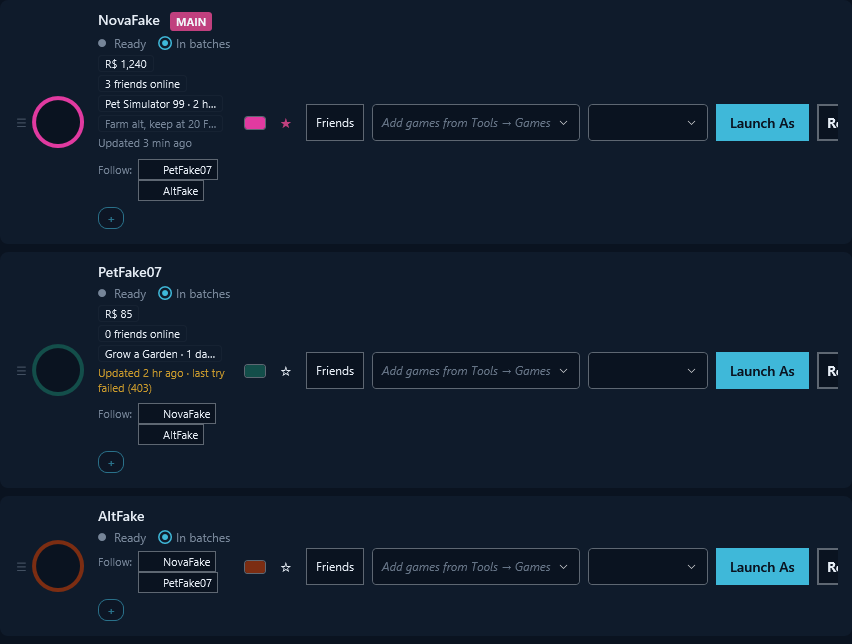
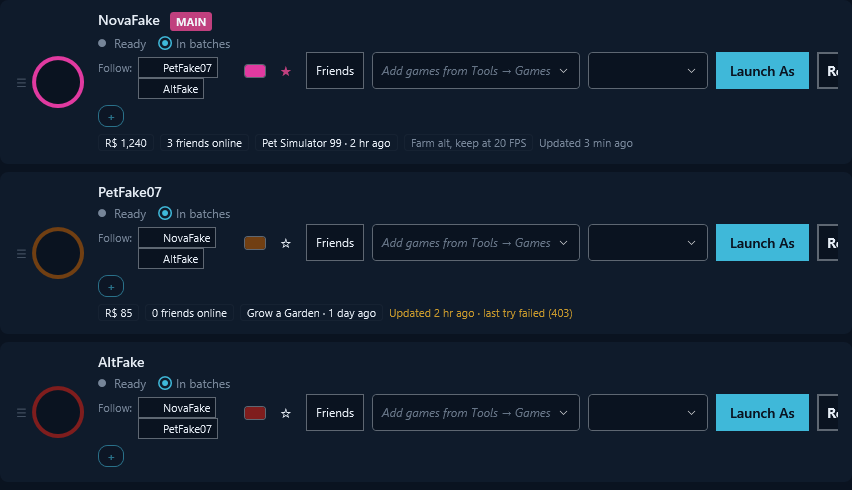
fix(row): facts line spans the row in its own grid row (v1.36 item 6)
The first cut put the facts line inside the 160 px name column, where four
items wrapped onto four lines (+82 px). It now sits in grid row 1, spanning
the name and actions columns: one line, +22 px at 96 DPI and +27 at 120.
Row 0 is Star (an Auto row 0 grew the collapsed row 8 px). The expired rule,
grip and avatar span both rows. Populated pixel constants re-measured
(114 / 142); the v1.35 constants 92 / 115 are untouched. Review PNGs
regenerated.

diff --git a/src/ROROROblox.App/MainWindow.xaml b/src/ROROROblox.App/MainWindow.xaml
@@ -359,6 +359,16 @@
                 </Border.ContextMenu>
 
                 <Grid>
+                    <!-- Row 0 is everything the row was in v1.35 and is Star, not Auto: it replaces the
+                         implicit single star row, and an Auto row 0 measured the collapsed row 8 px taller
+                         than v1.35 (AccountRowCollapsedRenderTests). Row 1 is the v1.36 facts line and is
+                         zero height while its panel is Collapsed. The expired rule, the grip and the
+                         avatar span both rows (they draw the row's full height, centred); the name and
+                         actions columns stay in row 0 so the actions never overlap the facts line. -->
+                    <Grid.RowDefinitions>
+                        <RowDefinition Height="*" />
+                        <RowDefinition Height="Auto" />
+                    </Grid.RowDefinitions>
                     <Grid.ColumnDefinitions>
                         <!-- Expired rule + the gap that used to be the Border's left padding.
                              Reserved whether or not the rule is showing, so a session going stale
@@ -390,7 +400,7 @@
                          The Hidden default lives in the Style setter, not on the element: a local
                          Visibility="Hidden" would outrank the DataTrigger and the rule would never
                          appear. -->
-                    <Rectangle Grid.Column="0"
+                    <Rectangle Grid.Column="0" Grid.RowSpan="2"
                                Width="3"
                                HorizontalAlignment="Left"
                                RadiusX="1.5" RadiusY="1.5"
@@ -410,7 +420,7 @@
                     <!-- Drag-grip — visual cue that the row is reorderable. Press-and-drag the
                          grip to move the row; drop on another row to swap. Tag={Binding} so the
                          Window-level handler knows which AccountSummary started the drag. -->
-                    <Border Grid.Column="1" Width="14" Margin="0,0,4,0"
+                    <Border Grid.Column="1" Grid.RowSpan="2" Width="14" Margin="0,0,4,0"
                             Background="Transparent"
                             Cursor="SizeAll"
                             Tag="{Binding}"
@@ -429,7 +439,7 @@
                     <!-- Avatar — wrapped in a colored ring driven by the per-account caption color.
                          The ring is what makes the per-account color visible inside the app even
                          when Roblox's window chrome refuses the DWM caption tint. -->
-                    <Grid Grid.Column="2" Width="52" Height="52" VerticalAlignment="Center">
+                    <Grid Grid.Column="2" Grid.RowSpan="2" Width="52" Height="52" VerticalAlignment="Center">
                         <Ellipse>
                             <Ellipse.Fill>
                                 <MultiBinding Converter="{StaticResource CaptionColorBrushConverter}">
@@ -640,64 +650,6 @@
                                 </TextBlock.Style>
                             </TextBlock>
                         </StackPanel>
-
-                        <!-- v1.36 facts line (A1, picked 2026-11-02): its own line under the status line, inside this
-             column. Collapsed, not Hidden, when it has nothing to say, so an account with no facts, no
-             history and no note renders exactly as it did in v1.35. Last played comes from local
-             history and counts as something to say; the age hint alone never opens the line. Each
-             badge shows only when its own fact is known (the dash and "unknown" live on the
-             summary for the accessible name). Robux, membership and friends online read "••••"
-             under streamer mode and the note is hidden; last played and the age are not masked.
-             The panel WRAPS rather than clips (F-119 precedent, the Follow strip below): at the declared
-             900 px the name column is about 160 px wide, and a clipped line silently drops last played,
-             the note and the age hint. A line that wraps costs height only when there is a lot to say.
-             Membership is built but collapsed whenever membership is not a membership: the probes
-             have not run. -->
-        <WrapPanel Orientation="Horizontal" Margin="0,4,0,0"
-                    Visibility="{Binding HasFactsLine, Converter={StaticResource BoolToVisibilityConverter}}">
-            <Border Style="{StaticResource FactBadgeStyle}"
-                    AutomationProperties.Name="{Binding RobuxAccessibleName}"
-                    Visibility="{Binding ShowRobuxBadge, Converter={StaticResource BoolToVisibilityConverter}}">
-                <TextBlock Text="{Binding RobuxText}" />
-            </Border>
-            <Border Style="{StaticResource FactBadgeStyle}"
-                    AutomationProperties.Name="{Binding MembershipAccessibleName}"
-                    Visibility="{Binding ShowMembershipBadge, Converter={StaticResource BoolToVisibilityConverter}}">
-                <TextBlock Text="{Binding MembershipText}" />
-            </Border>
-            <Border Style="{StaticResource FactBadgeStyle}"
-                    AutomationProperties.Name="{Binding FriendsOnlineAccessibleName}"
-                    Visibility="{Binding ShowFriendsOnlineBadge, Converter={StaticResource BoolToVisibilityConverter}}">
-                <TextBlock Text="{Binding FriendsOnlineText}" />
-            </Border>
-            <Border Style="{StaticResource FactBadgeStyle}"
-                    AutomationProperties.Name="{Binding LastPlayedAccessibleName}"
-                    Visibility="{Binding ShowLastPlayedBadge, Converter={StaticResource BoolToVisibilityConverter}}">
-                <TextBlock Text="{Binding LastPlayedText}" TextTrimming="CharacterEllipsis" />
-            </Border>
-            <Border Style="{StaticResource FactBadgeStyle}"
-                    AutomationProperties.Name="{Binding NoteAccessibleName}"
-                    Visibility="{Binding ShowNoteBadge, Converter={StaticResource BoolToVisibilityConverter}}">
-                <TextBlock Text="{Binding NoteFirstLine}" MaxWidth="240"
-                           TextTrimming="CharacterEllipsis"
-                           Foreground="{DynamicResource MutedTextBrush}" />
-            </Border>
-            <TextBlock Text="{Binding FactsAgeText}" Margin="0,0,0,3" TextWrapping="Wrap"
-                       FontSize="{DynamicResource MetaFontSize}"
-                       VerticalAlignment="Center"
-                       Visibility="{Binding ShowFactsAge, Converter={StaticResource BoolToVisibilityConverter}}">
-                <TextBlock.Style>
-                    <Style TargetType="TextBlock">
-                        <Setter Property="Foreground" Value="{DynamicResource MutedTextBrush}" />
-                        <Style.Triggers>
-                            <DataTrigger Binding="{Binding FactsFailed}" Value="True">
-                                <Setter Property="Foreground" Value="{DynamicResource RowExpiredAccentBrush}" />
-                            </DataTrigger>
-                        </Style.Triggers>
-                    </Style>
-                </TextBlock.Style>
-            </TextBlock>
-        </WrapPanel>
 
         <!-- Follow strip — "Follow:" label + chips of OTHER accounts. Click a chip to
                              launch THIS row's account into that account's current Roblox server
@@ -1159,6 +1111,63 @@
                                 Padding="10,6"
                                 Style="{StaticResource DestructiveButtonStyle}" />
                     </StackPanel>
+
+                    <!-- v1.36 facts line (A1, picked 2026-11-02): its own line under the whole row, in grid row 1 and
+                         spanning the name and actions columns, so it has the row's width rather than the 160 px name
+                         column. Row 1 is Auto and the panel is Collapsed (not Hidden) when it has nothing to say, so an
+                         account with no facts, no history and no note renders exactly as in v1.35. Last played comes
+                         from local history and counts as something to say; the age hint alone never opens the line.
+                         Each badge shows only when its own fact is known. Robux, membership and friends online read the
+                         masked placeholder under streamer mode and the note is hidden; last played and the age are not
+                         masked. A WrapPanel, so it is one line in the common case and wraps only on a very narrow row or
+                         a long language (F-119 precedent). Membership is built but collapsed whenever membership is not
+                         a membership: the probes have not run. -->
+                    <WrapPanel Grid.Row="1" Grid.Column="3" Grid.ColumnSpan="2"
+                               Orientation="Horizontal" Margin="14,2,0,0"
+                               Visibility="{Binding HasFactsLine, Converter={StaticResource BoolToVisibilityConverter}}">
+                        <Border Style="{StaticResource FactBadgeStyle}"
+                                AutomationProperties.Name="{Binding RobuxAccessibleName}"
+                                Visibility="{Binding ShowRobuxBadge, Converter={StaticResource BoolToVisibilityConverter}}">
+                            <TextBlock Text="{Binding RobuxText}" />
+                        </Border>
+                        <Border Style="{StaticResource FactBadgeStyle}"
+                                AutomationProperties.Name="{Binding MembershipAccessibleName}"
+                                Visibility="{Binding ShowMembershipBadge, Converter={StaticResource BoolToVisibilityConverter}}">
+                            <TextBlock Text="{Binding MembershipText}" />
+                        </Border>
+                        <Border Style="{StaticResource FactBadgeStyle}"
+                                AutomationProperties.Name="{Binding FriendsOnlineAccessibleName}"
+                                Visibility="{Binding ShowFriendsOnlineBadge, Converter={StaticResource BoolToVisibilityConverter}}">
+                            <TextBlock Text="{Binding FriendsOnlineText}" />
+                        </Border>
+                        <Border Style="{StaticResource FactBadgeStyle}"
+                                AutomationProperties.Name="{Binding LastPlayedAccessibleName}"
+                                Visibility="{Binding ShowLastPlayedBadge, Converter={StaticResource BoolToVisibilityConverter}}">
+                            <TextBlock Text="{Binding LastPlayedText}" TextTrimming="CharacterEllipsis" />
+                        </Border>
+                        <Border Style="{StaticResource FactBadgeStyle}"
+                                AutomationProperties.Name="{Binding NoteAccessibleName}"
+                                Visibility="{Binding ShowNoteBadge, Converter={StaticResource BoolToVisibilityConverter}}">
+                            <TextBlock Text="{Binding NoteFirstLine}" MaxWidth="240"
+                                       TextTrimming="CharacterEllipsis"
+                                       Foreground="{DynamicResource MutedTextBrush}" />
+                        </Border>
+                        <TextBlock Text="{Binding FactsAgeText}" Margin="0,0,0,3" TextWrapping="Wrap"
+                                   FontSize="{DynamicResource MetaFontSize}"
+                                   VerticalAlignment="Center"
+                                   Visibility="{Binding ShowFactsAge, Converter={StaticResource BoolToVisibilityConverter}}">
+                            <TextBlock.Style>
+                                <Style TargetType="TextBlock">
+                                    <Setter Property="Foreground" Value="{DynamicResource MutedTextBrush}" />
+                                    <Style.Triggers>
+                                        <DataTrigger Binding="{Binding FactsFailed}" Value="True">
+                                            <Setter Property="Foreground" Value="{DynamicResource RowExpiredAccentBrush}" />
+                                        </DataTrigger>
+                                    </Style.Triggers>
+                                </Style>
+                            </TextBlock.Style>
+                        </TextBlock>
+                    </WrapPanel>
                 </Grid>
             </Border>
             </StackPanel>

diff --git a/src/ROROROblox.Tests/Rendering/AccountRowCollapsedRenderTests.cs b/src/ROROROblox.Tests/Rendering/AccountRowCollapsedRenderTests.cs
@@ -42,19 +42,19 @@ public class AccountRowCollapsedRenderTests
 
     /// <summary>
     /// Rendered <c>AccountRowBorder</c> height at 96 DPI, in device pixels, with the v1.36 facts line
-    /// VISIBLE (Robux, friends online, a note and a fresh age hint). Measured on the item-6 commit.
-    /// <para>82 px over the collapsed 92, and that is NOT one line. At the declared 900 px the name
-    /// column is only about 160 px wide (the actions column takes the rest), so the WrapPanel breaks the
-    /// four items onto separate lines. A one-line variant (clipped) measured 21 px over (113 at 96, 141
-    /// at 120), but silently dropped last played, the note and the age hint; wrapping was kept on the
-    /// F-119 precedent and the choice is flagged for Este.</para> It is the SECOND bar, beside
-    /// <see cref="V135RowHeight96"/>, which stays the collapsed row: a populated row is allowed to be
-    /// taller by exactly the facts line and no more, so a stray margin or a second line trips this.
+    /// VISIBLE (Robux, friends online, a note and a fresh age hint). Measured on the item-6 rework
+    /// commit. It is the SECOND bar, beside <see cref="V135RowHeight96"/>, which stays the collapsed row.
+    /// <para>22 px over the collapsed 92: one line. These constants MOVED from the first cut (174 at
+    /// 96, 218 at 120) because the line used to sit inside the name column, which at the declared
+    /// 900 px is only about 160 px wide, so four items wrapped onto four lines (+82 px). The line now
+    /// lives in grid row 1 and spans the name and actions columns, so the same populated row fits on
+    /// one line. (The one-line clipped variant of the first cut measured +21.) Row 0 is a Star row, not
+    /// Auto: an Auto row 0 made the collapsed row 8 px taller than v1.35.</para>
     /// </summary>
-    internal const int PopulatedRowHeight96 = 174;
+    internal const int PopulatedRowHeight96 = 114;
 
-    /// <summary>Same row at 120 DPI; see <see cref="PopulatedRowHeight96"/>. 103 px over the collapsed 115.</summary>
-    internal const int PopulatedRowHeight120 = 218;
+    /// <summary>Same row at 120 DPI; see <see cref="PopulatedRowHeight96"/>. 27 px over the collapsed 115.</summary>
+    internal const int PopulatedRowHeight120 = 142;
 
     private readonly Xunit.Abstractions.ITestOutputHelper _output;
 
